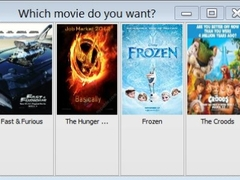
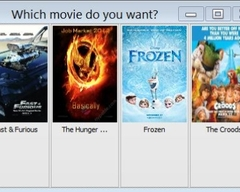
Projects-Complete

diff --git a/Assignment01/index.html b/Assignment01/index.html
@@ -6,6 +6,7 @@
     <title>Comp308-Assignment01</title>
     <link href="CSS/normalize.css" rel="stylesheet" />
     <link href="assets/sliderengine/amazingslider-1.css" rel="stylesheet" />
+    <link rel="stylesheet" type="text/css" href="assets/sliderengine/amazingslider-2.css">
     <link href="CSS/foundation.css" rel="stylesheet" />
     <link href="CSS/app.css" rel="stylesheet" />
 </head>
@@ -71,11 +72,11 @@
 
                 <div class="row">
                     <div class="small-12 columns">
-                        <div id="amazingslider-wrapper-1">
-                            <div id="amazingslider-1">
+                        <div id="amazingslider-wrapper-2">
+                            <div id="amazingslider-2">
                                 <ul class="amazingslider-slides">
                                     <li>
-                                        <img src="assets/images/AndroidHealth.png" alt="Android Mobile Health Monitoring" />
+                                        <img src="assets/images/AndroidHealth.png" alt="Android Health Monitoring" />
                                     </li>
                                     <li>
                                         <img src="assets/images/MovieTicket.JPG" alt="Java Ticket Booking GUI" />
@@ -85,7 +86,7 @@
                                     </li>
                                 </ul>
                                 <ul class="amazingslider-thumbnails">
-                                    <li><img src="assets/images/AndroidHealth-tn.png" alt="Android Mobile Health Monitoring" /></li>
+                                    <li><img src="assets/images/AndroidHealth-tn.png" alt="Android Health Monitoring" /></li>
                                     <li><img src="assets/images/MovieTicket-tn.JPG" alt="Java Ticket Booking GUI" /></li>
                                     <li><img src="assets/images/TicketSys-tn.jpg" alt="Enterprise Internal Ticket System" /></li>
                                 </ul>
@@ -211,7 +212,7 @@
     <div class="row show-for-large-up">
         <div class="large-9 columns">
             <div id="amazingslider-wrapper-1">
-                <div id="amazingslider-2">
+                <div id="amazingslider-1">
                     <ul class="amazingslider-slides">
                         <li>
                             <img src="assets/images/AndroidHealth.png" alt="Android Mobile Health Monitoring" />

diff --git a/Assignment01/assets/sliderengine/initslider-2.js b/Assignment01/assets/sliderengine/initslider-2.js
@@ -9,8 +9,8 @@ jQuery(document).ready(function(){
     jQuery("#amazingslider-2").amazingslider({
         sliderid:2,
         jsfolder:jsFolder,
-        width:400,
-        height:300,
+        width:270,
+        height:200,
         skinsfoldername:"",
         loadimageondemand:false,
         videohidecontrols:false,

diff --git a/Assignment01/CSS/app.css b/Assignment01/CSS/app.css
@@ -62,6 +62,19 @@ h6{
     margin: auto auto;
 }
 
+#amazingslider-wrapper-2 {
+    display: block;
+    position: relative;
+    max-width: 270px;
+    margin: 0px auto 56px;
+}
+
+#amazingslider-2 {
+    display: block;
+    position: relative;
+    margin: 0 auto;
+}
+
 .amazingslider-slides{
     display:none;
 }
